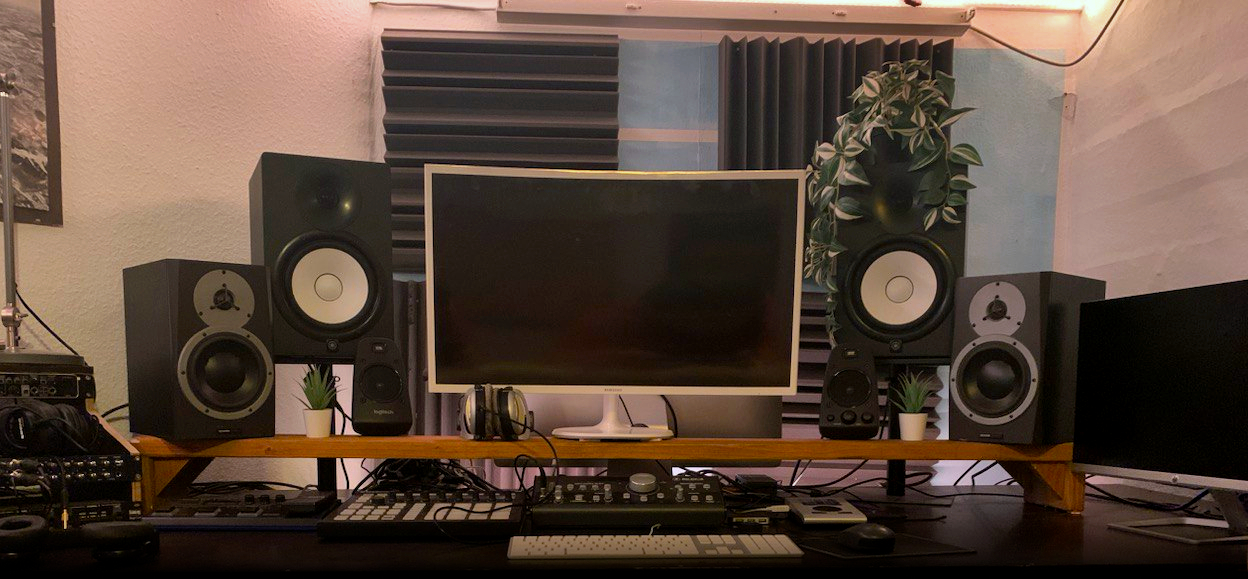
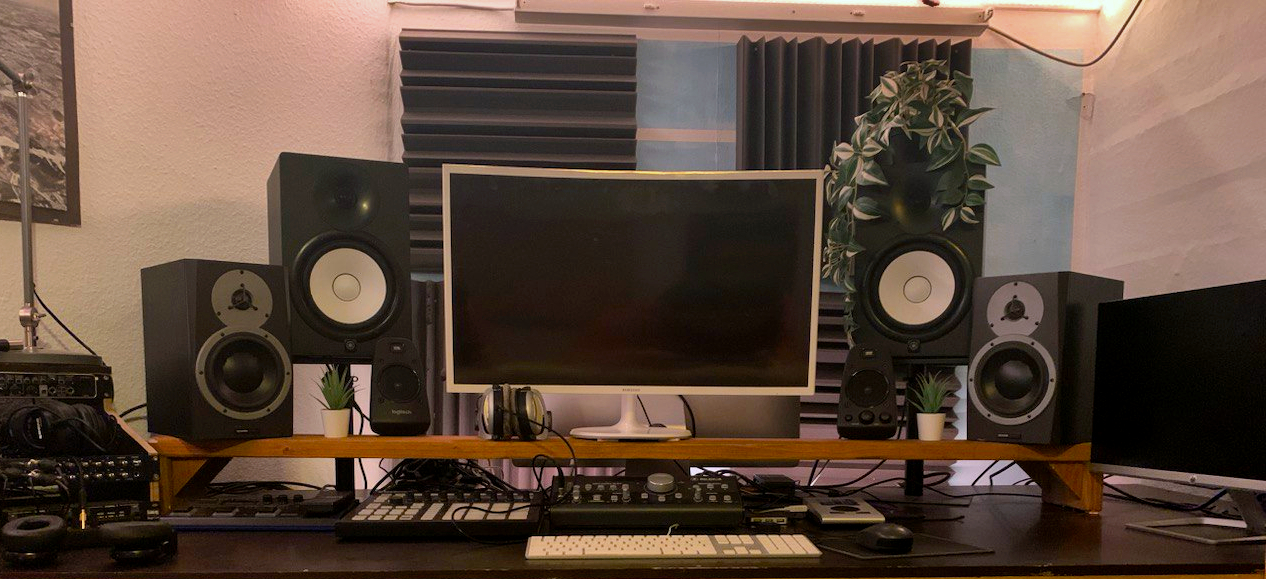
Add header text "lighthouse studio"

diff --git a/index.html b/index.html
@@ -14,8 +14,14 @@
         <header>
             <img src="assets/images/control_setup.jpg" alt="Header Background">
             <div class="overlay"></div>
+            <div class="header-text">
+                Lighthouse Studio<br>
+                <span class="sub-text">Kiel</span>
+            </div>
         </header>
     
+
+
         <!-- Hamburger button (only visible on mobile) -->
         <button class="menu-toggle" aria-label="Open Navigation">&#9776;</button>
     
@@ -27,19 +33,6 @@
             <a href="#band">Über uns</a>
             <a href="#contact">Kontakt</a>
         </nav>
-
-        <section id="photo" style="margin-top: -30px;">
-            <img src="images/banner.png" id="bandphoto" alt="Beifang Foto">
-            <table>
-                <tbody>
-                    <tr>
-                        <td><a href="https://www.instagram.com/beifang_kiel/" target="_blank"><img class="socialmedia_logo" src="images/instagram_logo.png" alt="Link zu Instagram"></a></td>
-                        <td><a href="https://open.spotify.com/intl-de/artist/5szzIIwqCPYO7CzmmfwIcE" target="_blank"><img id="spotify_logo" class="socialmedia_logo" src="images/spotify_logo.png" alt="Link zu Spotify"></a></td>
-                        <td><a href="https://www.youtube.com/@beifangkiel" target="_blank"><img id="youtube_logo" class="socialmedia_logo" src="images/youtube_logo.png" alt="Link zu Youtube"></a></td>
-                    </tr>
-                </tbody>
-            </table>            
-        </section>
 
         <section id="music" style="padding-top: 80px;">
             <h2 class="subtitles" style="text-align: center">MUSIK</h2>

diff --git a/style.css b/style.css
@@ -40,6 +40,26 @@ header {
     overflow: hidden;
 }
 
+.header-text {
+    position: absolute;
+    top: 50%; /* Center vertically */
+    left: 50%; /* Center horizontally */
+    transform: translate(-50%, -50%); /* Perfect centering */
+    z-index: 2; /* Layer above image and overlay */
+    color: white; /* Ensure text is visible */
+    font-size: 3.8rem; /* Font size for main text */
+    font-weight: bold; /* Make the main text bold */
+    text-align: center; /* Center the text */
+    text-shadow: 2px 2px 4px rgba(0, 0, 0, 0.8); /* Subtle shadow for readability */
+}
+
+.header-text .sub-text {
+    display: block; /* Ensure it's on a new line */
+    font-size: 2rem; /* Smaller font size for the second line */
+    font-weight: normal; /* Optional: lighter weight for contrast */
+}
+
+
 header img {
     position: absolute;
     top: 50%;
@@ -113,6 +133,11 @@ header .overlay {
 /* Responsive Styling */
 @media (min-width: 768px) {
     /* Desktop Layout */
+    header img {
+        height: 100%; /* Ensure full height */
+        object-fit: cover; /* Crop sides */
+    }
+
     .menu-toggle {
         display: none; /* Hide the hamburger button */
     }
